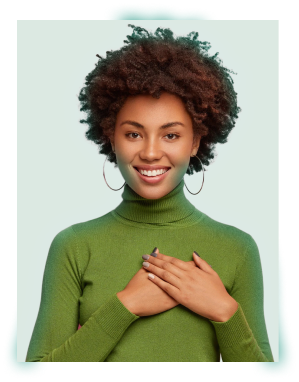
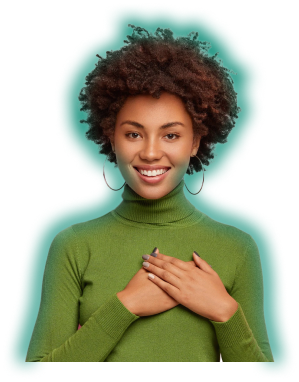
CSS do Navbar adicionado

Changed region(s): [[0.0301, 0.0288, 0.9331, 0.9503]]

diff --git a/index.html b/index.html
@@ -8,7 +8,90 @@
     <link rel="stylesheet" href="style.css" />
   </head>
   <body>
-    <header>
+    <nav class="scroll">
+      <div class="wrapper">
+        <a class="logo" href="#">
+          <svg
+            width="133"
+            height="18"
+            viewBox="0 0 133 18"
+            fill="none"
+            xmlns="http://www.w3.org/2000/svg"
+          >
+            <path
+              d="M0 17.088V0.287999H5.16C8.12 0.287999 10.296 1.04 11.688 2.544C13.096 4.048 13.8 6.112 13.8 8.736C13.8 11.312 13.096 13.352 11.688 14.856C10.296 16.344 8.12 17.088 5.16 17.088H0ZM2.016 15.408H5.112C6.744 15.408 8.04 15.144 9 14.616C9.976 14.072 10.672 13.304 11.088 12.312C11.504 11.304 11.712 10.112 11.712 8.736C11.712 7.328 11.504 6.12 11.088 5.112C10.672 4.104 9.976 3.328 9 2.784C8.04 2.24 6.744 1.968 5.112 1.968H2.016V15.408Z"
+              fill="#212529"
+            />
+            <path
+              d="M22.4949 17.376C21.3749 17.376 20.3669 17.12 19.4709 16.608C18.5749 16.096 17.8629 15.376 17.3349 14.448C16.8229 13.504 16.5669 12.4 16.5669 11.136C16.5669 9.872 16.8309 8.776 17.3589 7.848C17.8869 6.904 18.5989 6.176 19.4949 5.664C20.4069 5.152 21.4229 4.896 22.5429 4.896C23.6629 4.896 24.6709 5.152 25.5669 5.664C26.4629 6.176 27.1669 6.904 27.6789 7.848C28.2069 8.776 28.4709 9.872 28.4709 11.136C28.4709 12.4 28.2069 13.504 27.6789 14.448C27.1509 15.376 26.4309 16.096 25.5189 16.608C24.6229 17.12 23.6149 17.376 22.4949 17.376ZM22.4949 15.648C23.1829 15.648 23.8229 15.48 24.4149 15.144C25.0069 14.808 25.4869 14.304 25.8549 13.632C26.2229 12.96 26.4069 12.128 26.4069 11.136C26.4069 10.144 26.2229 9.312 25.8549 8.64C25.5029 7.968 25.0309 7.464 24.4389 7.128C23.8469 6.792 23.2149 6.624 22.5429 6.624C21.8549 6.624 21.2149 6.792 20.6229 7.128C20.0309 7.464 19.5509 7.968 19.1829 8.64C18.8149 9.312 18.6309 10.144 18.6309 11.136C18.6309 12.128 18.8149 12.96 19.1829 13.632C19.5509 14.304 20.0229 14.808 20.5989 15.144C21.1909 15.48 21.8229 15.648 22.4949 15.648Z"
+              fill="#212529"
+            />
+            <path
+              d="M37.2261 17.376C36.0901 17.376 35.0661 17.12 34.1541 16.608C33.2581 16.08 32.5461 15.352 32.0181 14.424C31.5061 13.48 31.2501 12.384 31.2501 11.136C31.2501 9.888 31.5061 8.8 32.0181 7.872C32.5461 6.928 33.2581 6.2 34.1541 5.688C35.0661 5.16 36.0901 4.896 37.2261 4.896C38.6341 4.896 39.8181 5.264 40.7781 6C41.7541 6.736 42.3701 7.72 42.6261 8.952H40.5621C40.4021 8.216 40.0101 7.648 39.3861 7.248C38.7621 6.832 38.0341 6.624 37.2021 6.624C36.5301 6.624 35.8981 6.792 35.3061 7.128C34.7141 7.464 34.2341 7.968 33.8661 8.64C33.4981 9.312 33.3141 10.144 33.3141 11.136C33.3141 12.128 33.4981 12.96 33.8661 13.632C34.2341 14.304 34.7141 14.816 35.3061 15.168C35.8981 15.504 36.5301 15.672 37.2021 15.672C38.0341 15.672 38.7621 15.472 39.3861 15.072C40.0101 14.656 40.4021 14.072 40.5621 13.32H42.6261C42.3861 14.52 41.7781 15.496 40.8021 16.248C39.8261 17 38.6341 17.376 37.2261 17.376Z"
+              fill="#212529"
+            />
+            <path
+              d="M50.2974 17.088C49.2094 17.088 48.3534 16.824 47.7294 16.296C47.1054 15.768 46.7934 14.816 46.7934 13.44V6.888H44.7294V5.184H46.7934L47.0574 2.328H48.8094V5.184H52.3134V6.888H48.8094V13.44C48.8094 14.192 48.9614 14.704 49.2654 14.976C49.5694 15.232 50.1054 15.36 50.8734 15.36H52.1214V17.088H50.2974Z"
+              fill="#212529"
+            />
+            <path
+              d="M60.4506 17.376C59.3306 17.376 58.3226 17.12 57.4266 16.608C56.5306 16.096 55.8186 15.376 55.2906 14.448C54.7786 13.504 54.5226 12.4 54.5226 11.136C54.5226 9.872 54.7866 8.776 55.3146 7.848C55.8426 6.904 56.5546 6.176 57.4506 5.664C58.3626 5.152 59.3786 4.896 60.4986 4.896C61.6186 4.896 62.6266 5.152 63.5226 5.664C64.4186 6.176 65.1226 6.904 65.6346 7.848C66.1626 8.776 66.4266 9.872 66.4266 11.136C66.4266 12.4 66.1626 13.504 65.6346 14.448C65.1066 15.376 64.3866 16.096 63.4746 16.608C62.5786 17.12 61.5706 17.376 60.4506 17.376ZM60.4506 15.648C61.1386 15.648 61.7786 15.48 62.3706 15.144C62.9626 14.808 63.4426 14.304 63.8106 13.632C64.1786 12.96 64.3626 12.128 64.3626 11.136C64.3626 10.144 64.1786 9.312 63.8106 8.64C63.4586 7.968 62.9866 7.464 62.3946 7.128C61.8026 6.792 61.1706 6.624 60.4986 6.624C59.8106 6.624 59.1706 6.792 58.5786 7.128C57.9866 7.464 57.5066 7.968 57.1386 8.64C56.7706 9.312 56.5866 10.144 56.5866 11.136C56.5866 12.128 56.7706 12.96 57.1386 13.632C57.5066 14.304 57.9786 14.808 58.5546 15.144C59.1466 15.48 59.7786 15.648 60.4506 15.648Z"
+              fill="#212529"
+            />
+            <path
+              d="M69.7097 17.088V5.184H71.5337L71.7017 7.464C72.0697 6.68 72.6297 6.056 73.3817 5.592C74.1337 5.128 75.0617 4.896 76.1657 4.896V7.008H75.6137C74.9097 7.008 74.2617 7.136 73.6697 7.392C73.0777 7.632 72.6057 8.048 72.2537 8.64C71.9017 9.232 71.7257 10.048 71.7257 11.088V17.088H69.7097Z"
+              fill="#212529"
+            />
+            <path
+              d="M86.4924 17.376C84.7964 17.376 83.3404 17.016 82.1244 16.296C80.9084 15.56 79.9724 14.544 79.3164 13.248C78.6604 11.936 78.3324 10.424 78.3324 8.712C78.3324 7 78.6604 5.488 79.3164 4.176C79.9724 2.864 80.9084 1.84 82.1244 1.104C83.3404 0.368 84.7964 0 86.4924 0C88.5084 0 90.1564 0.504 91.4364 1.512C92.7324 2.504 93.5404 3.904 93.8604 5.712H90.4764C90.2684 4.8 89.8204 4.088 89.1324 3.576C88.4604 3.048 87.5644 2.784 86.4444 2.784C84.8924 2.784 83.6764 3.312 82.7964 4.368C81.9164 5.424 81.4764 6.872 81.4764 8.712C81.4764 10.552 81.9164 12 82.7964 13.056C83.6764 14.096 84.8924 14.616 86.4444 14.616C87.5644 14.616 88.4604 14.376 89.1324 13.896C89.8204 13.4 90.2684 12.72 90.4764 11.856H93.8604C93.5404 13.584 92.7324 14.936 91.4364 15.912C90.1564 16.888 88.5084 17.376 86.4924 17.376Z"
+              fill="#00856F"
+            />
+            <path
+              d="M101.092 17.376C100.068 17.376 99.2278 17.216 98.5718 16.896C97.9158 16.56 97.4277 16.12 97.1077 15.576C96.7878 15.032 96.6278 14.432 96.6278 13.776C96.6278 12.672 97.0598 11.776 97.9238 11.088C98.7878 10.4 100.084 10.056 101.812 10.056H104.836V9.768C104.836 8.952 104.604 8.352 104.14 7.968C103.676 7.584 103.1 7.392 102.412 7.392C101.788 7.392 101.244 7.544 100.78 7.848C100.316 8.136 100.028 8.568 99.9157 9.144H96.9157C96.9958 8.28 97.2837 7.528 97.7797 6.888C98.2917 6.248 98.9477 5.76 99.7477 5.424C100.548 5.072 101.444 4.896 102.436 4.896C104.132 4.896 105.468 5.32 106.444 6.168C107.42 7.016 107.908 8.216 107.908 9.768V17.088H105.292L105.004 15.168C104.652 15.808 104.156 16.336 103.516 16.752C102.892 17.168 102.084 17.376 101.092 17.376ZM101.788 14.976C102.668 14.976 103.348 14.688 103.828 14.112C104.324 13.536 104.636 12.824 104.764 11.976H102.148C101.332 11.976 100.748 12.128 100.396 12.432C100.044 12.72 99.8678 13.08 99.8678 13.512C99.8678 13.976 100.044 14.336 100.396 14.592C100.748 14.848 101.212 14.976 101.788 14.976Z"
+              fill="#00856F"
+            />
+            <path
+              d="M111.319 17.088V5.184H114.055L114.343 7.416C114.775 6.648 115.359 6.04 116.095 5.592C116.847 5.128 117.727 4.896 118.735 4.896V8.136H117.871C117.199 8.136 116.599 8.24 116.071 8.448C115.543 8.656 115.127 9.016 114.823 9.528C114.535 10.04 114.391 10.752 114.391 11.664V17.088H111.319Z"
+              fill="#00856F"
+            />
+            <path
+              d="M126.888 17.376C125.688 17.376 124.624 17.12 123.696 16.608C122.768 16.096 122.04 15.376 121.512 14.448C120.984 13.52 120.72 12.448 120.72 11.232C120.72 10 120.976 8.904 121.488 7.944C122.016 6.984 122.736 6.24 123.648 5.712C124.576 5.168 125.664 4.896 126.912 4.896C128.08 4.896 129.112 5.152 130.008 5.664C130.904 6.176 131.6 6.88 132.096 7.776C132.608 8.656 132.864 9.64 132.864 10.728C132.864 10.904 132.856 11.088 132.84 11.28C132.84 11.472 132.832 11.672 132.816 11.88H123.768C123.832 12.808 124.152 13.536 124.728 14.064C125.32 14.592 126.032 14.856 126.864 14.856C127.488 14.856 128.008 14.72 128.424 14.448C128.856 14.16 129.176 13.792 129.384 13.344H132.504C132.28 14.096 131.904 14.784 131.376 15.408C130.864 16.016 130.224 16.496 129.456 16.848C128.704 17.2 127.848 17.376 126.888 17.376ZM126.912 7.392C126.16 7.392 125.496 7.608 124.92 8.04C124.344 8.456 123.976 9.096 123.816 9.96H129.744C129.696 9.176 129.408 8.552 128.88 8.088C128.352 7.624 127.696 7.392 126.912 7.392Z"
+              fill="#00856F"
+            />
+          </svg>
+        </a>
+        <svg
+          width="40"
+          height="40"
+          viewBox="0 0 40 40"
+          fill="none"
+          xmlns="http://www.w3.org/2000/svg"
+        >
+          <path
+            d="M10 20H30"
+            stroke="#00856F"
+            stroke-width="2"
+            stroke-linecap="round"
+            stroke-linejoin="round"
+          />
+          <path
+            d="M10 12H30"
+            stroke="#00856F"
+            stroke-width="2"
+            stroke-linecap="round"
+            stroke-linejoin="round"
+          />
+          <path
+            d="M18 28L30 28"
+            stroke="#00856F"
+            stroke-width="2"
+            stroke-linecap="round"
+            stroke-linejoin="round"
+          />
+        </svg>
+      </div>
+    </nav>
+    <header class="wrapper">
       <h4>BOAS-VINDAS A DOCTORCARE 👋</h4>
       <h1>Assistência médica simplificada para todos</h1>
       <p>
@@ -34,12 +117,20 @@
         src="./assets/Foto.png"
         alt="Mulher negra vestindo moletom verde e sorrindo"
       />
-      <h3>+3.500</h3>
-      <p>Pacientes atendidos</p>
-      <h3>+15</h3>
-      <p>Especialistas disponíveis</p>
-      <h3>+10</h3>
-      <p>Anos no mercado</p>
+      <div class="stats">
+        <div class="stat">
+          <h3>+3.500</h3>
+          <p>Pacientes atendidos</p>
+        </div>
+        <div class="stat">
+          <h3>+15</h3>
+          <p>Especialistas disponíveis</p>
+        </div>
+        <div class="stat">
+          <h3>+10</h3>
+          <p>Anos no mercado</p>
+        </div>
+      </div>
     </header>
   </body>
 </html>

diff --git a/style.css b/style.css
@@ -1,5 +1,6 @@
 @import url("https://fonts.googleapis.com/css2?family=DM+Sans:wght@400;700&family=Raleway:ital@1&display=swap");
 
+/* ==== GERAL ===================================*/
 * {
   margin: 0;
   box-sizing: border-box;
@@ -9,7 +10,12 @@
   --primary-color: hsl(170, 100%, 26%);
   --headline: hsl(210, 11%, 15%);
   --paragraph: hsl(210, 9%, 31%);
+  --brand-beige: hsl(39, 100%, 97%);
+  --green-light: hsl(148, 23%, 89%);
+
   font-size: 62.5%;
+
+  --nav-height: 7.2rem;
 }
 
 body {
@@ -18,21 +24,38 @@ body {
   text-align: center;
 }
 
-header {
+.wrapper {
   width: 37.5rem;
-  margin-right: auto;
-  margin-left: auto;
-  margin-top: 4.1rem;
+  margin-inline: auto;
+  padding-inline: 2.4rem;
 }
 
-h4 {
+/* ==== HEADER ===================================*/
+header::before {
+  content: "";
+  width: 100vw;
+  height: calc(108rem + var(--nav-height));
+  background-color: var(--green-light);
+  display: block;
+
+  position: absolute;
+  top: 0;
+  left: 0;
+  z-index: -1;
+}
+
+header {
+  margin-top: calc(4.1rem + var(--nav-height));
+}
+
+header h4 {
   font-size: 1.4rem;
   color: var(--primary-color);
 
   margin-bottom: 1.6rem;
 }
 
-h1 {
+header h1 {
   font-size: 3.4rem;
   color: var(--headline);
   line-height: 130%;
@@ -40,7 +63,7 @@ h1 {
   margin-bottom: 2.4rem;
 }
 
-p {
+header p {
   color: var(--paragraph);
   font-size: 1.8rem;
   line-height: 150%;
@@ -48,7 +71,7 @@ p {
   margin-bottom: 3.2rem;
 }
 
-button {
+header button {
   background-color: var(--primary-color);
 
   border: none;
@@ -73,6 +96,69 @@ button {
   margin-right: auto;
   margin-left: auto;
 }
+header img {
+  width: 26.4rem;
+  display: block;
+  margin-inline: auto;
+  object-position: 0 2rem;
+}
 
-img {
+.stats {
+  width: 32.7rem;
+
+  padding-block: 4rem;
+
+  margin-inline: auto;
+
+  background-color: var(--brand-beige);
+  border: 1px solid var(--green-light);
+  border-radius: 0.6rem;
+
+  display: flex;
+  flex-direction: column;
+  justify-content: center;
+  gap: 6rem;
+}
+
+.stat h3 {
+  font-size: 4.8rem;
+  color: var(--headline);
+  line-height: 130%;
+  margin-bottom: 0.4rem;
+}
+
+.stat p {
+  color: var(--primary-color);
+  margin: 0;
+}
+
+/* ==== NAVIGATION ===================================*/
+nav {
+  display: flex;
+
+  height: var(--nav-height);
+
+  position: fixed;
+  top: 0;
+  left: 50%;
+  transform: translateX(-50%);
+}
+
+nav .wrapper {
+  display: flex;
+  align-items: center;
+  justify-content: space-between;
+}
+
+nav.scroll {
+  background-color: var(--primary-color);
+  width: 100vw;
+}
+
+nav.scroll svg:nth-child(1) path {
+  fill: white;
+}
+
+nav.scroll svg:nth-child(2) path {
+  stroke: white;
 }
